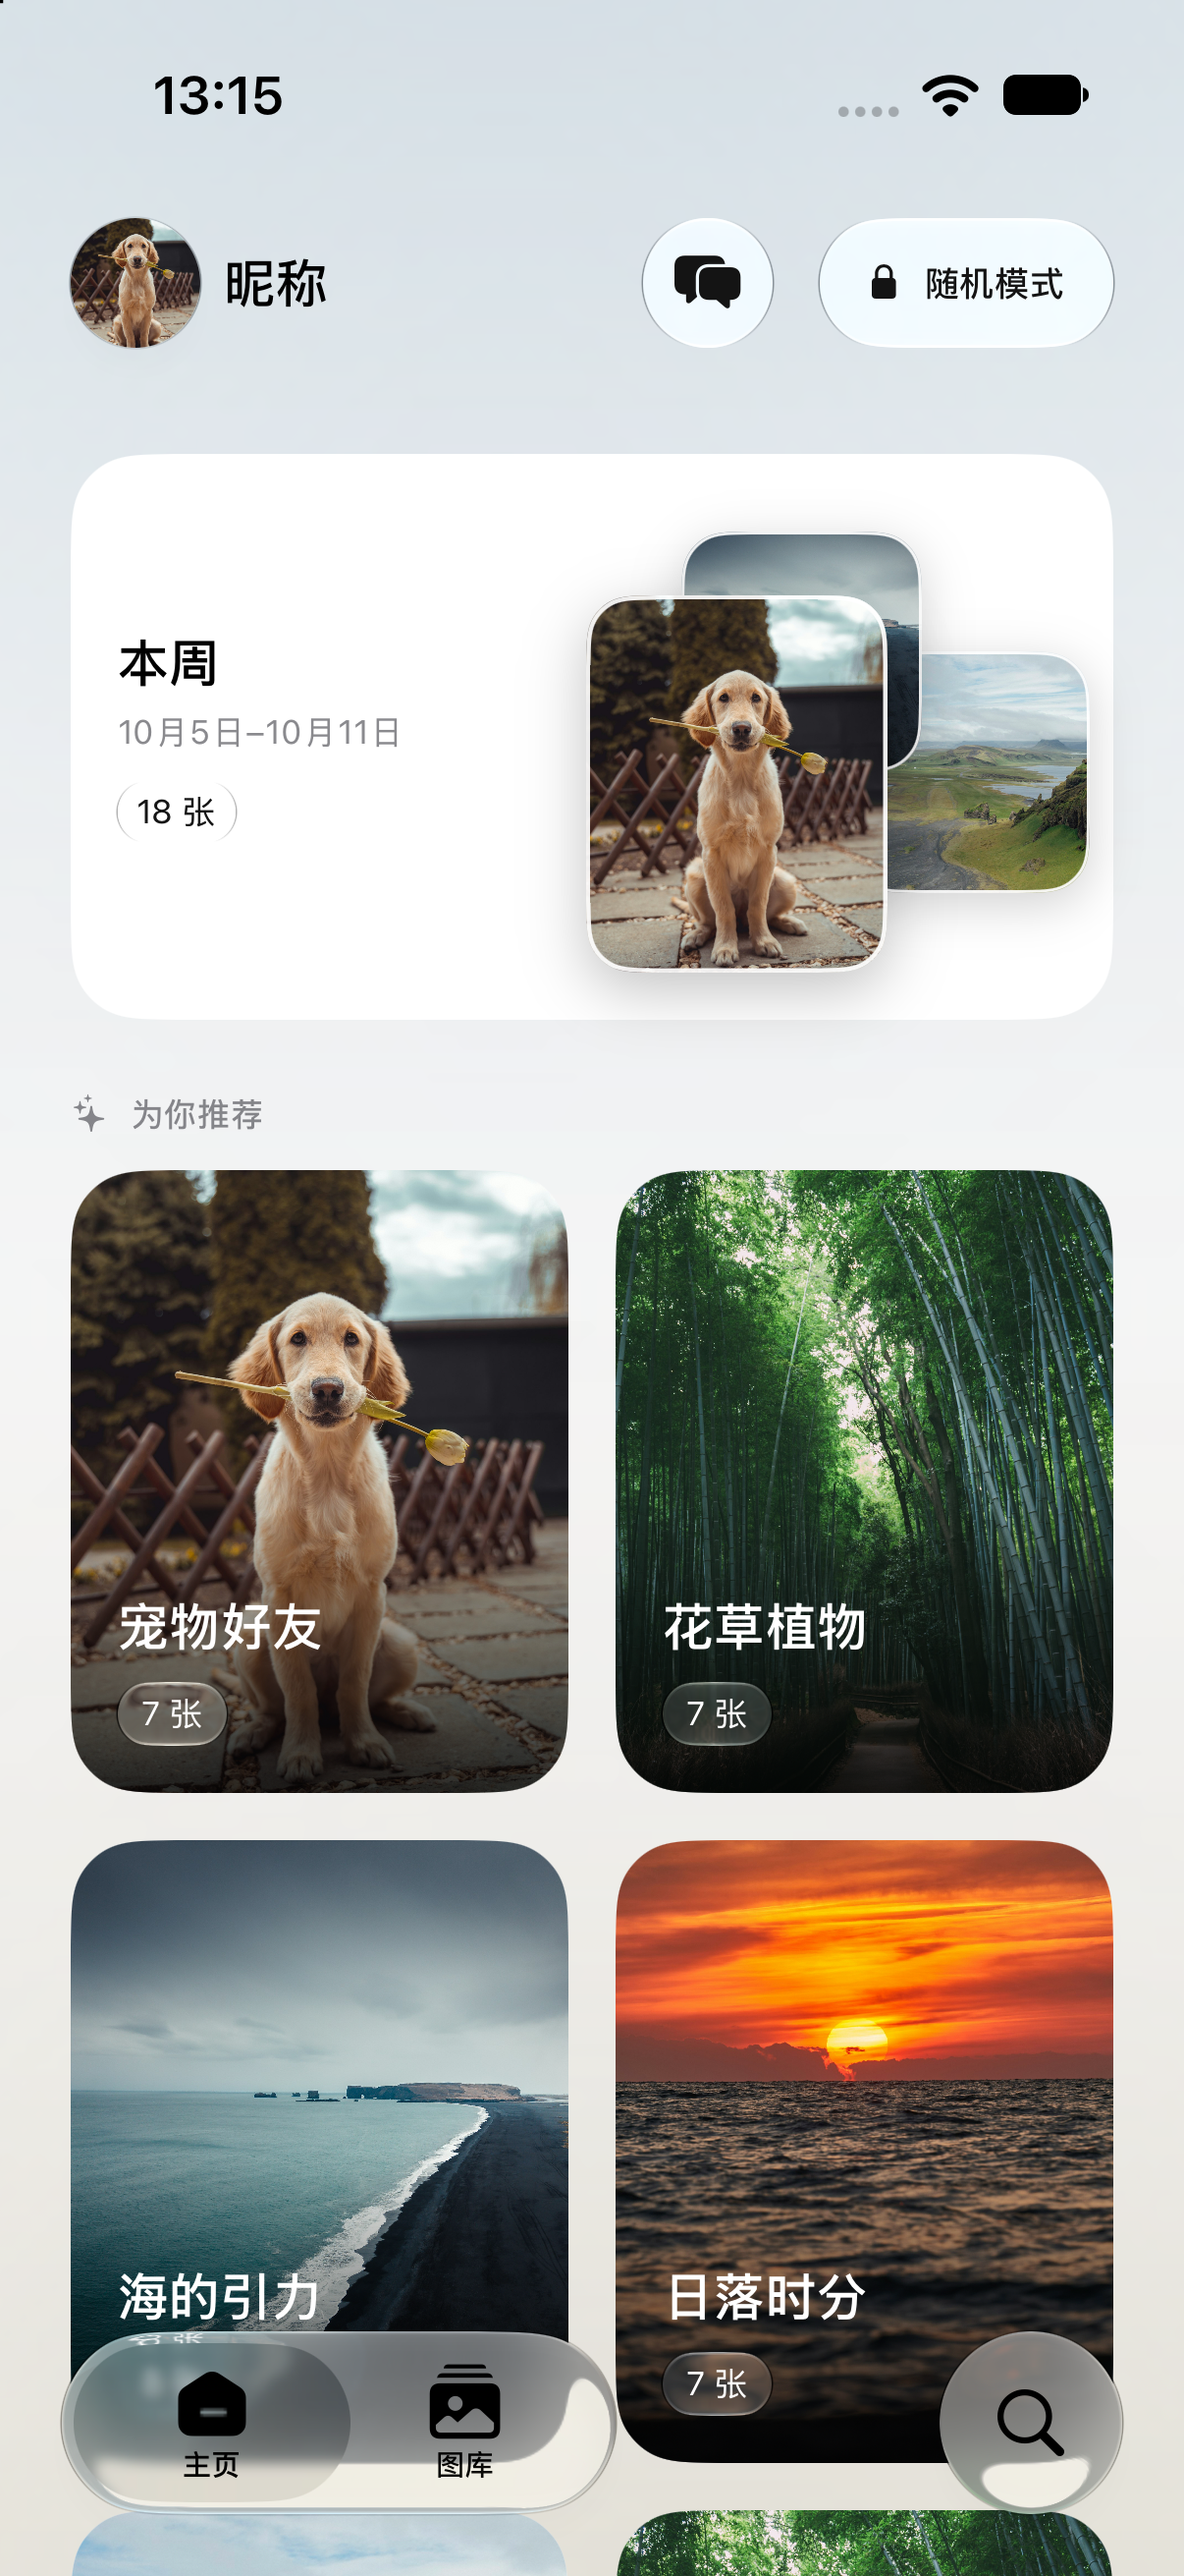
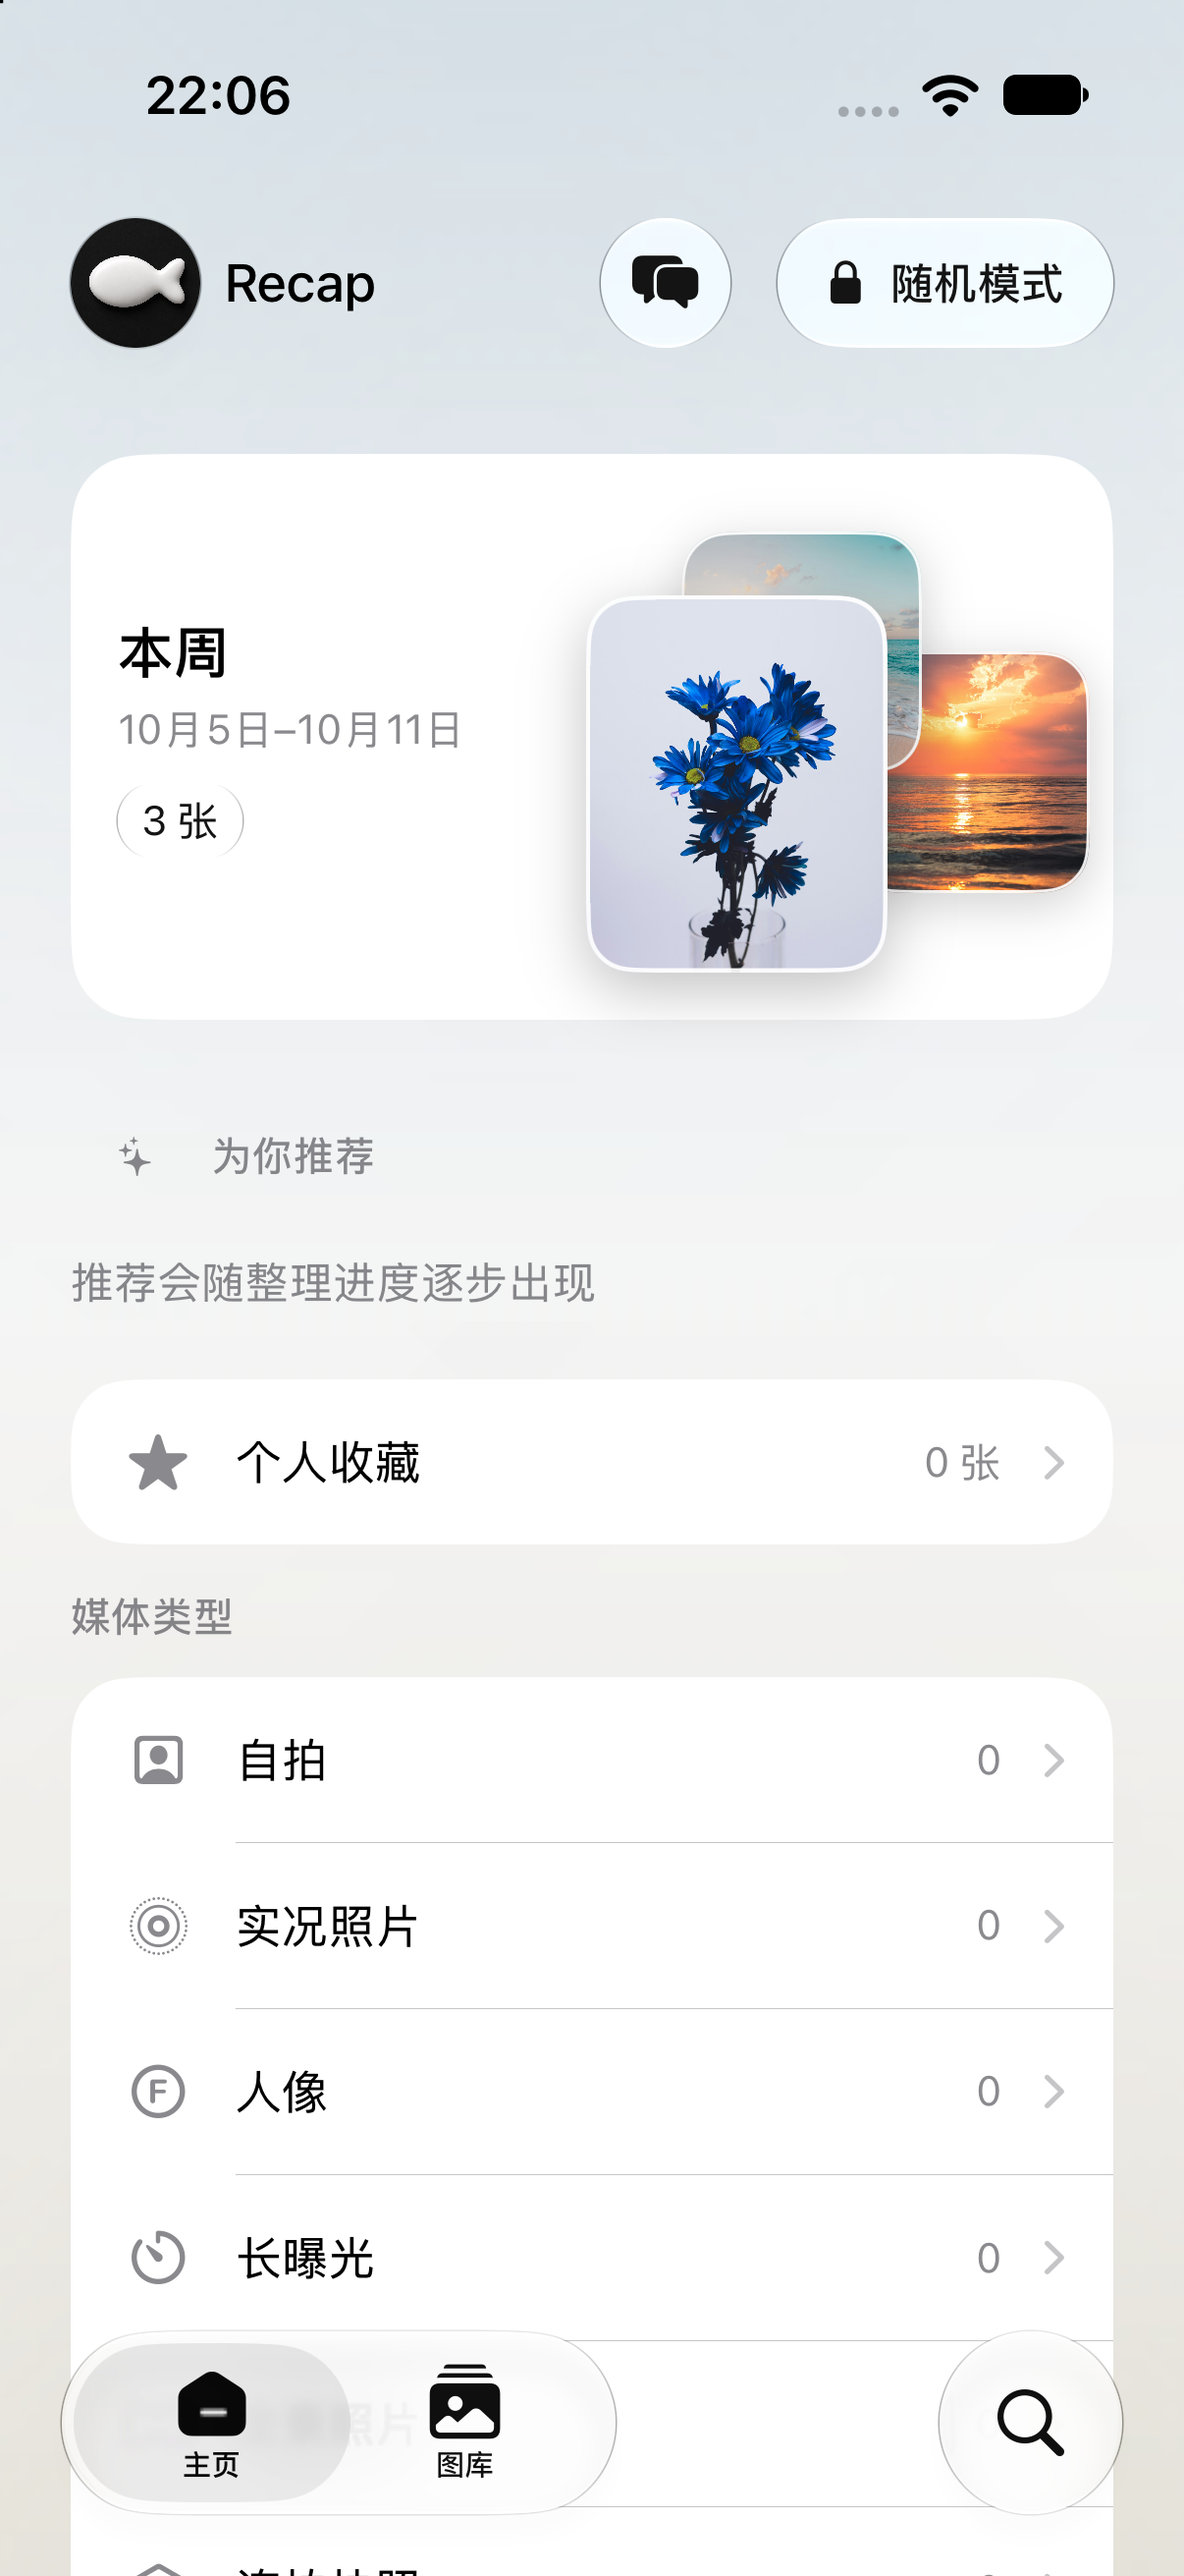
Use unique localized Unsplash photography

diff --git a/src/styles/global.css b/src/styles/global.css
@@ -62,6 +62,14 @@ h1 { font-size: clamp(48px, 5.4vw, 72px); font-weight: 400; letter-spacing: -.05
 .handheld-screen img { width: 100%; height: 100%; object-fit: cover; object-position: center top; }
 .phone { background: #222725; padding: 5px; border-radius: 39px; border: 1px solid #393f39; box-shadow: 0 0 0 3px #c1c3ba, 0 22px 45px -18px #33362c44; position: relative; }
 .phone img { width: 100%; border-radius: 34px; }
+.theme-gallery-phone { height: 510px; padding: 14px 11px 12px; background: #f7f6f1; border-radius: 34px; }
+.theme-gallery-heading { height: 39px; display: flex; justify-content: space-between; align-items: center; padding: 0 4px; color: #20211f; font-size: 15px; font-weight: 600; }
+.theme-gallery-heading span:last-child { color: #8b8d82; font-size: 17px; }
+.theme-gallery-grid { display: grid; grid-template-columns: repeat(2, minmax(0, 1fr)); gap: 8px; }
+.theme-photo-card { aspect-ratio: .78; position: relative; overflow: hidden; border-radius: 17px; background: #deded5; }
+.theme-photo-card img { position: absolute; inset: 0; width: 100%; height: 100%; object-fit: cover; border-radius: 0; }
+.theme-photo-card::after { content: ''; position: absolute; inset: 38% 0 0; background: linear-gradient(transparent, #10120fc9); }
+.theme-photo-card span { position: absolute; z-index: 1; inset-inline: 9px; bottom: 10px; color: white; font-size: 11px; line-height: 1.2; font-weight: 600; text-shadow: 0 1px 5px #0008; }
 .feature-section { padding-block: 72px; }
 .feature-grid { display: grid; grid-template-columns: minmax(0, 1fr) minmax(0, 1fr); gap: 64px; align-items: center; }
 .feature-copy { max-width: 490px; padding: 10px 0; }

diff --git a/src/data/site.ts b/src/data/site.ts
@@ -28,7 +28,7 @@ export const copy = {
     explore: 'Explore Recap',
     heroLines: ['Relive the moments', 'you almost forgot.'],
     heroDescription: 'Rediscover your photo library through weekly recaps, city memories, and familiar themes.',
-    heroAlt: 'A hand holding a front-facing phone displaying Recap’s real home screen, with a weekly photo card and theme collections.',
+    heroAlt: 'A hand holding a front-facing phone displaying Recap’s real home screen and this week’s photo card.',
     weekly: {
       title: 'Your days deserve\na second look.',
       body: 'The walk. The weekend. The photo you took for no particular reason. Browse your photos week by week, and find the life between the highlights.',
@@ -79,7 +79,7 @@ export const copy = {
     explore: '看看 Recap',
     heroLines: ['把拍过的日子，', '再过一遍。'],
     heroDescription: '按周回看生活，从城市和主题里，重新发现值得记住的时刻。',
-    heroAlt: '手握正面手机，屏幕展示 Recap 真实首页，包括本周照片卡和主题集合。',
+    heroAlt: '手握正面手机，屏幕展示 Recap 真实首页和本周照片卡片。',
     weekly: {
       title: '日子值得，\n再看一遍。',
       body: '散步、周末，还有那张没有特别理由拍下的照片。按周翻看相册，重新发现那些大事之间的小日子。',

diff --git a/docs/asset-sources.md b/docs/asset-sources.md
@@ -7,32 +7,37 @@
 | 网站文件 | 来源 | 说明 |
 | --- | --- | --- |
 | `public/app-icon.png` | `Recap/Assets.xcassets/AppIconFish.appiconset/AppIconFishDefault.png` | 当前项目配置使用的主图标 |
-| `src/assets/screens/home.png` | 已启动模拟器的真实首页截图 | 周卡、主题卡，演示照片 |
-| `src/assets/screens/week.png` | 同一构建的真实周浏览截图 | 已打开的本周照片集合 |
-| `src/assets/screens/cities.png` | `/tmp/RecapCityRecaps-light-directory.png` | 城市目录验证截图，含演示地名；不能作为真实旅行记录 |
+| `src/assets/screens/home.png` | 独立截图模拟器中实际运行的 App | 简体中文首页，含 3 张独立 Unsplash 周照片 |
+| `src/assets/screens/week.png` | 同一构建的中文周回顾 | 简体中文界面，8 张不同照片 |
+| `src/assets/screens/cities.png` | 同一构建的中文城市目录 | 哥本哈根、斯德哥尔摩、赫尔辛基、奥斯陆、东京、首尔，各用不同实景照片 |
+| `src/assets/screens/en/home.png` | App 切换为 English 后采集 | 英文首页，显示独立 Unsplash 周照片 |
+| `src/assets/screens/en/week.png` | 同一 App 的英文周回顾 | 英文标题与照片数量，8 张不同照片 |
+| `src/assets/screens/en/cities.png` | 同一 App 的英文城市目录 | Copenhagen、Stockholm、Helsinki、Oslo、Tokyo、Seoul；名称、日期和数量均为英文，每张封面均不同 |
+| `src/assets/theme-photos/` | Unsplash | 六类主题素材，整页不复用其他照片；由网页组件排成主题面板，并非 App 截图 |
 
-截图保持原图，由 Astro 在构建时生成不同宽度的 WebP。没有生成或重画 App 界面，未将开发验证等同于 TestFlight 验证。
+截图保持原图，由 Astro 在构建时生成不同宽度的 WebP。首页、周回顾、城市目录按页面语言选择对应截图；主题面板使用六张独立 Unsplash 摄影素材。没有重画 App 截图，未将开发构建等同于 TestFlight 验证。
+
+英文城市素材采集关闭 `-recap-ui-testing`，使用已有演示图库的 `remote-*.jpg` 实景照片。UI 测试模式生成的渐变封面不作为网站素材。
 
 ## 手握手机模型
 
 `src/assets/mockups/handheld-phone-v1.png` 使用内置 imagegen 生成，是含真实透明通道的 1024×1536 PNG。当前工具没有模型版本选择参数，不能确认用户提出的 image-2.5 版本；本轮未使用 CLI 或 API fallback。
 
-完整生成提示词保存在 `handheld-phone-prompt.txt`。主视觉要求自然手部握持、正面平行手机、屏幕无遮挡、柔和影棚光线、无文字或虚构 UI。首页通过 CSS 单独嵌入 `screens/home.png`，模型原图和 App 截图均未重新绘制。
+完整生成提示词保存在 `handheld-phone-prompt.txt`。主视觉要求自然手部握持、正面平行手机、屏幕无遮挡、柔和影棚光线、无文字或虚构 UI。首页通过 CSS 单独嵌入对应语言的 `home.png`，模型原图和 App 截图均未重新绘制。
 
 截图使用 `object-fit: cover` 按原比例铺满模型的屏幕开口，并向顶部对齐以保留状态栏；仅裁去底部少量内容，避免两侧出现黑边。
 
 ## 摄影
 
-复用 App 已收录的 Unsplash 演示照片，来源记录在 App 的 `Recap/Doc/initial-onboarding-unsplash-sources.md`。网站同时提供中英文素材来源页。
+页面摄影来自 Unsplash。部分演示素材复用 App 收录的 Unsplash 图库；完整来源及摄影师记录见双语素材来源页。截图中的每个城市、周回顾和主题照片均使用不同图像，页面背景装饰也不与这些照片重复。
 
 | 文件 | 摄影师 | 原始页面 |
 | --- | --- | --- |
 | `iceland.png` | Matteo Max Putzolu | https://unsplash.com/photos/boat-navigating-through-icebergs-in-glacial-lagoon-6RLyWPHqPoo |
 | `kyoto.png` | Andrea Fontalvo | https://unsplash.com/photos/kiyomizu-dera-temple-in-kyoto-forest-qStTtSA2W6o |
 | `glacier.png` | Joseph Corl | https://unsplash.com/photos/glacier-tongue-in-glacial-lake-JD5LvrCYmfQ |
-| `coast.jpg` | Bernd Dittrich | https://unsplash.com/photos/two-people-walking-on-a-beach-near-rocks-2_VbVQPUmcY |
 
-授权依据：[Unsplash License](https://unsplash.com/license)。App 截图中的其他照片来自现有 Unsplash 演示图库；最终发布前需与发布构建中的演示素材再核对。没有使用用户私人相册。
+城市照片与六张主题照片的出处已列在站内双语素材来源页。授权依据：[Unsplash License](https://unsplash.com/license)。没有使用用户私人相册。
 
 ## 功能与文案边界
 

diff --git a/docs/landing-page-todo.md b/docs/landing-page-todo.md
@@ -7,7 +7,7 @@
 - [x] 独立 Astro、TypeScript、原生 CSS 静态项目。
 - [x] 英文 `/` 与中文 `/zh/`，对应语言的隐私、条款及素材来源页。
 - [x] 首屏主张、每周回顾、城市回忆、主题发现，以及三个辅助能力的说明。
-- [x] 真实 App 图标、首页、周浏览与城市目录截图；有来源的演示照片。
+- [x] 真实 App 图标、双语首页、周回顾与城市目录截图；主题区采用来源可查且不重复的 Unsplash 照片面板。
 - [x] 默认显示“测试邀请准备中”；全站测试链接统一配置。
 - [x] 不承诺全 App 离线、云同步、万能识别或自动视频；明确本地助手和 Absolute 限制。
 - [x] 原生 FAQ、键盘焦点、减少动态效果、图片尺寸、响应式 WebP、图片延迟加载。
@@ -25,7 +25,7 @@
 ## 素材 P1
 
 - [ ] 补充随机回看的短录屏、真实分享导出卡片和助手对话结果。首版已提供文案及条件说明，未伪造这些展示。
-- [ ] 需要面向英文用户的最终演示截图时，集中从同一个可用构建采集。目前两种语言使用真实中文 App 截图。
+- [x] 采集真实英文首页、周回顾与城市目录截图；补充冰岛、丹麦、瑞典、芬兰、日本和韩国城市。主题面板使用六张独立 Unsplash 照片，不伪装成 App 截图。最终公开构建素材仍需上线前核对。
 - [ ] 完成最终公开版本的移动端视觉复核；检查结果见 `validation.md`。
 
 ## 发布 P2

diff --git a/changelog.md b/changelog.md
@@ -2,6 +2,8 @@
 
 ## Unreleased — 2026-10-09
 
+- 修复英文页面混用中文 App 截图：中英文首页、周回顾和城市目录分别采用对应语言的真实 App 截图；扩展六座北欧、日本和韩国城市，并为每个城市使用不同的 Unsplash 实景照片。
+- 主题展示改用六张彼此不同的 Unsplash 照片；全页首页、周回顾、城市、主题和装饰照片分组检查去重，并补齐素材来源。
 - 参考 AirBuild 官网统一浅灰底色、轻字重标题、紧凑吸顶导航和胶囊按钮，调整页面留白与中英文移动布局。
 - 功能截图改为正面展示，精简摄影装饰；辅助能力与隐私区采用统一卡片样式，FAQ 改为白色圆角卡片与加减图标。
 - 首屏改为生成的手握正面手机模型，使用独立图层嵌入真实 App 截图。

diff --git a/design-qa.md b/design-qa.md
@@ -47,4 +47,9 @@
 - [x] 手机与桌面视觉、原生 FAQ 与语言切换验证。
 - [x] 更新 changelog 和素材说明。
 
+## 截图本地化补充
+
+- 截图本地化补充复核（2026-10-09）：英文首屏、周回顾、城市、主题使用独立英文素材，中文使用原中文截图；城市封面均为 Unsplash 实景照片。1174px 与 390px 两种语言均无横向溢出，四处 App 图片全部加载，首屏填充保持 `cover`。
+- 本地化补充证据：`artifacts/localized-screens/en-cities-desktop.png`、`zh-cities-desktop.png`、`en-mobile.png`、`zh-mobile.png`、`en-cities-mobile.png`。检查英文目录标题、地名、日期、数量及照片封面通过，构建与路由验证通过。
+
 final result: passed
